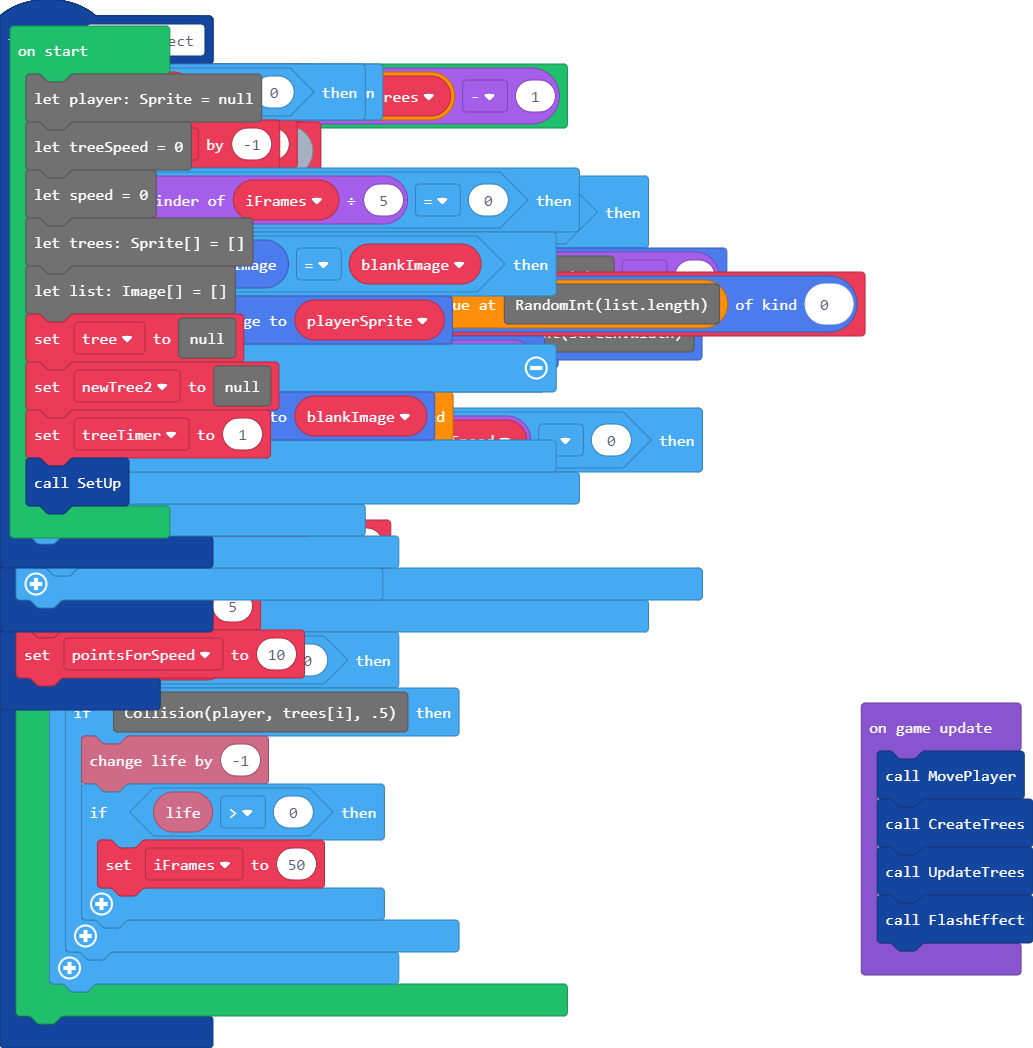
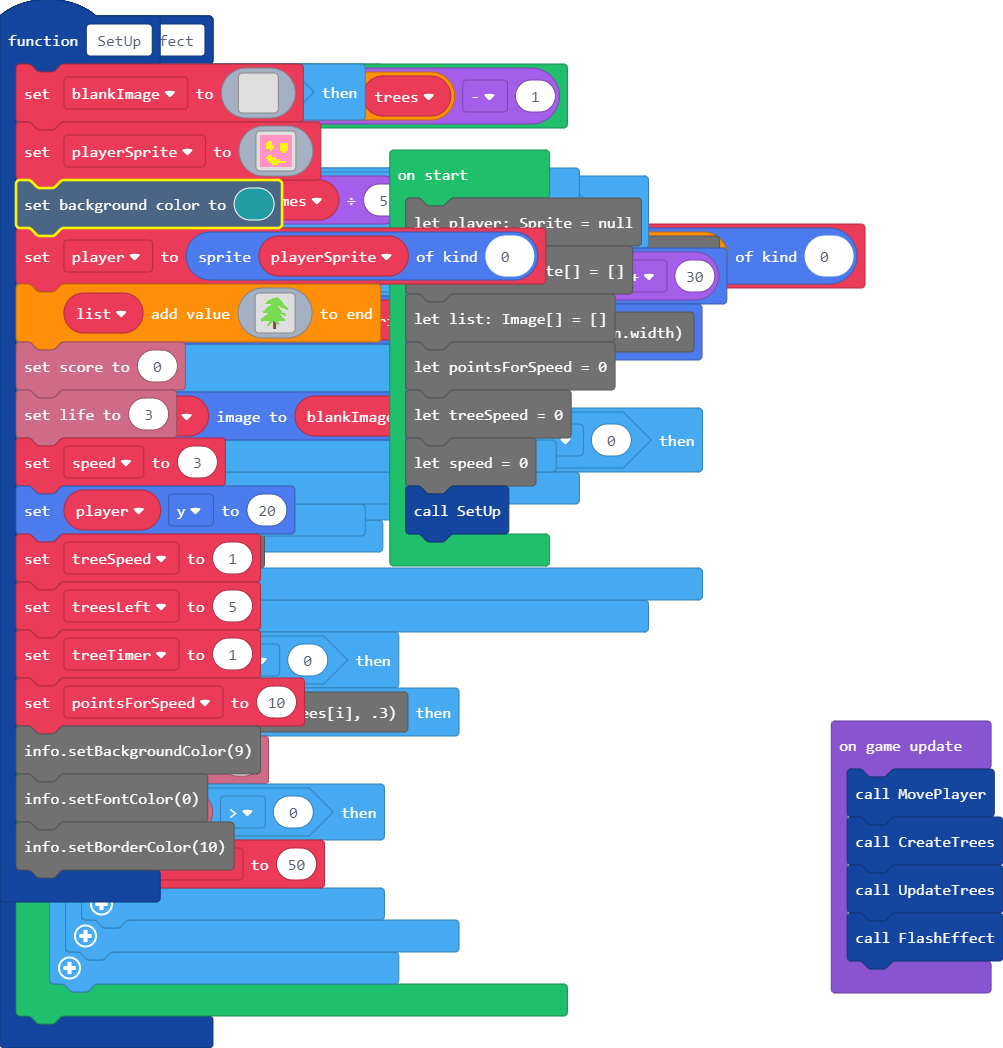
Update main.blocks, main.ts

diff --git a/main.ts b/main.ts
@@ -90,11 +90,8 @@ function SetUp () {
         3 3 3 3 3 3 5 5 5 3 3 3 3 3 3 3
         3 3 3 3 3 3 3 3 3 3 3 3 3 3 3 3
     `
-    player = sprites.create(playerSprite, 0)
     scene.setBackgroundColor(6)
-    player.y = 20
-    speed = 3
-    treeSpeed = 1
+    player = sprites.create(playerSprite, 0)
     list.push(img`
         . . . . . . . . . . . . . . . . . 7 7 . . . . . . . . . . . . .
         . . . . . . . . . . . . . 7 7 7 7 7 7 7 . . . . . . . . . . . .
@@ -131,24 +128,28 @@ function SetUp () {
     `)
     info.setScore(0)
     info.setLife(3)
+    speed = 3
+    player.y = 20
+    treeSpeed = 1
     treesLeft = 5
+    treeTimer = 1
     pointsForSpeed = 10
+    info.setBackgroundColor(9)
+    info.setFontColor(0)
+    info.setBorderColor(10)
 }
 let playerSprite: Image = null
 let blankImage: Image = null
 let iFrames = 0
-let pointsForSpeed = 0
 let newTree: Sprite = null
-let treesLeft = 0
 let treeTimer = 0
+let treesLeft = 0
 let player: Sprite = null
-let treeSpeed = 0
-let speed = 0
 let trees: Sprite[] = []
 let list: Image[] = []
-let tree = null
-let newTree2 = null
-treeTimer = 1
+let pointsForSpeed = 0
+let treeSpeed = 0
+let speed = 0
 SetUp()
 game.onUpdate(function () {
     MovePlayer()
